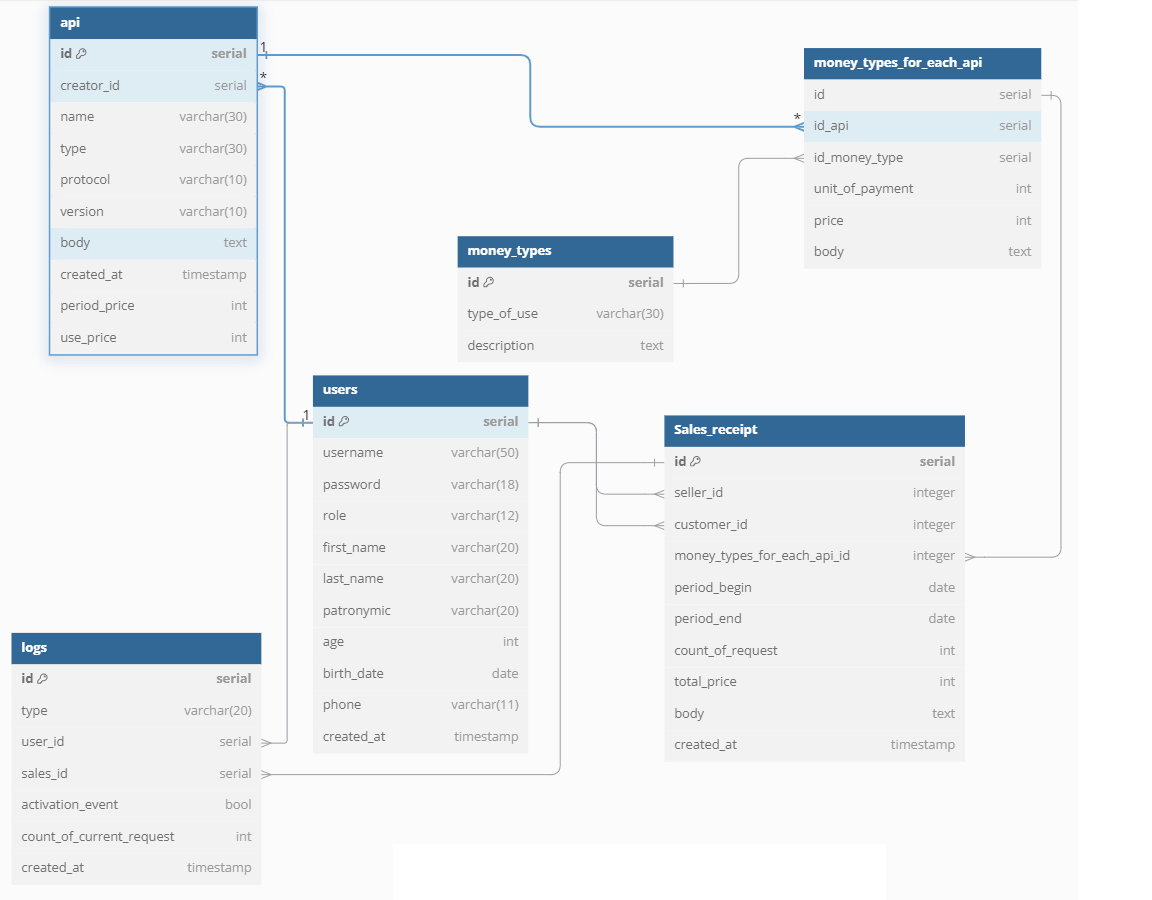
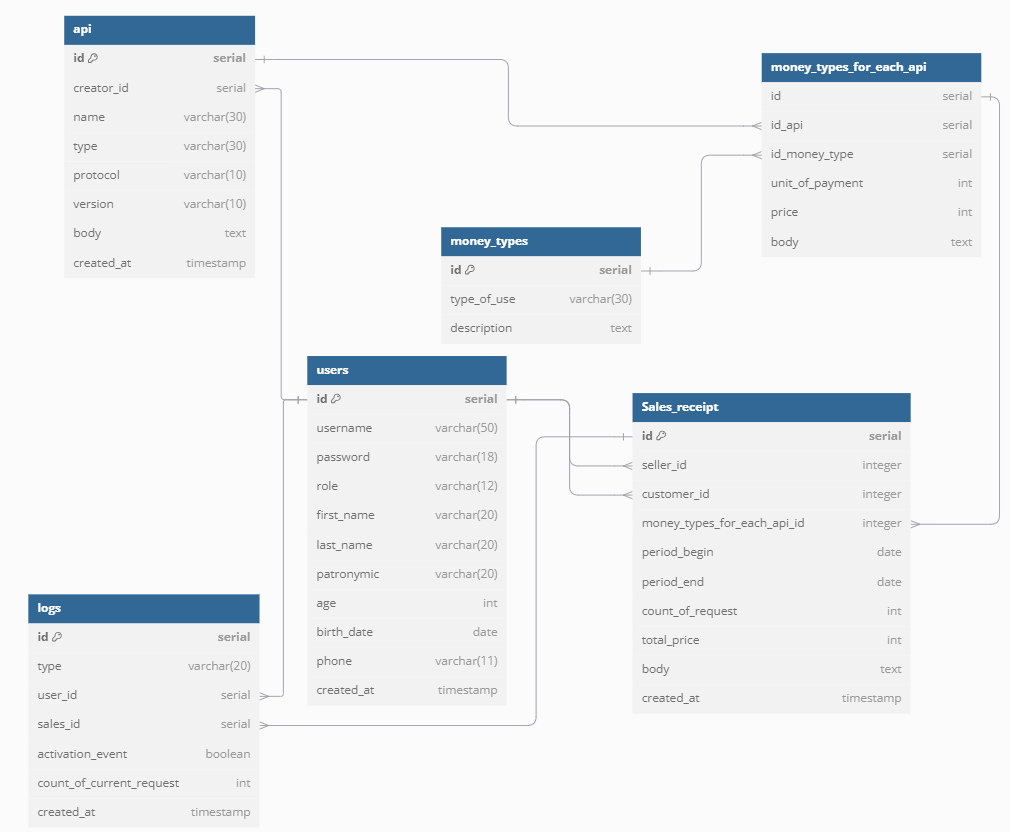
12

diff --git a/README.md b/README.md
@@ -120,13 +120,40 @@ Team-lead Полякова Анастасия Сергеевна
     *  body комментарий
     *  created_at дата выгрузки API на сайт
 
-  3.  Money_types
-    * id 
-    * id_api 
-    * id_money_type 
-    * unit_of_payment 
-    * price
-    * body    
+1.  Money_types
+    * id счетчик
+    * types_of_use тип тарифа (подписка, покупка на период, оплата за использование...)
+    * description описание
+
+4. Money_types_for_each_api
+    * id счетчик
+    * id_api ключ API
+    * id_money_type ключ типа тарифа
+    * unit_of_payment единица измерения (использование, день, месяц...)
+    * price цена за единицу
+    * body  комментарий
+
+5. Sales_receipt
+    * id счетчик
+    * seller_id ссылка на продавца
+    * customer_id ссылка на покупателя
+    * money_types_for_each_api_id ссылка на тариф
+    * period_begin начало периода (пустое, если подписка не на период)
+    * period_end конец периода (пустое, если подписка не на период)
+    * count_of_request количество использований (пустое, если тариф не на использование)
+    * total_price итоговая цена (расчетная цена за период или количество использований)
+    * body комментарий 
+    * created_at дата покупки
+
+6. Logs
+    * id счетчик
+    * type тип события
+    * user_id пользователь, породивший событие
+    * sales_id привязынная покупка (если есть)
+    * activation_event факт активации подписки (если есть)
+    * count_of_current_request количество выполненных запросов (если есть)
+    * created_at дата события
+
 
 
 
